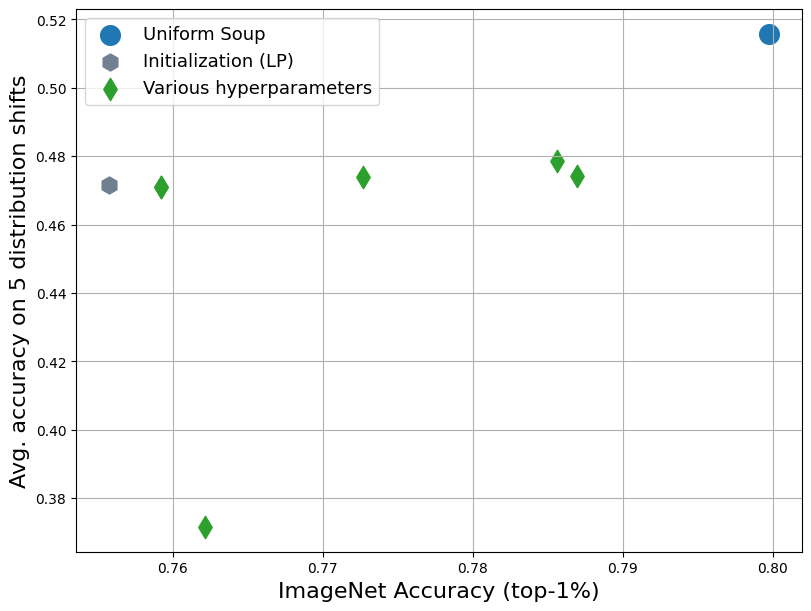
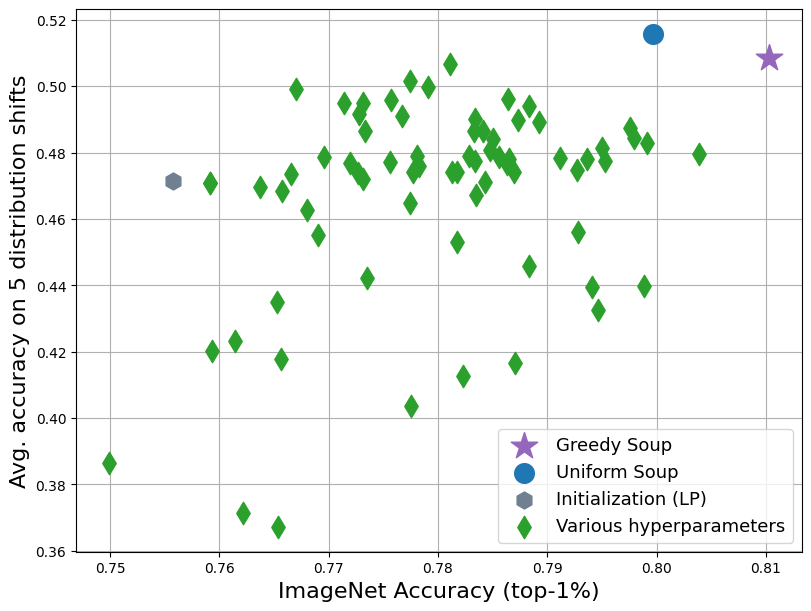
updated results

diff --git a/main.py b/main.py
@@ -5,6 +5,7 @@ import torch
 import clip
 import os
 import json
+import operator
 
 import matplotlib.pyplot as plt
 import numpy as np
@@ -61,6 +62,7 @@ if __name__ == '__main__':
     NUM_MODELS = 72
     INDIVIDUAL_MODEL_RESULTS_FILE = 'individual_model_results.jsonl'
     UNIFORM_SOUP_RESULTS_FILE = 'uniform_soup_results.jsonl'
+    GREEDY_SOUP_RESULTS_FILE = 'greedy_soup_results.jsonl'
 
     # Step 1: Download models.
     if args.download_models:
@@ -75,9 +77,8 @@ if __name__ == '__main__':
 
     model_paths = [os.path.join(args.model_location, f'model_{i}.pt') for i in range(NUM_MODELS)]
 
-
     # Step 2: Evaluate individual models.
-    if args.eval_individual_models or args.uniform_soup:
+    if args.eval_individual_models or args.uniform_soup or args.greedy_soup:
         base_model, preprocess = clip.load('ViT-B/32', 'cpu', jit=False)
 
     if args.eval_individual_models:
@@ -108,9 +109,6 @@ if __name__ == '__main__':
     if args.uniform_soup:
         if os.path.exists(UNIFORM_SOUP_RESULTS_FILE):
             os.remove(UNIFORM_SOUP_RESULTS_FILE)
-        uniform_soup_location = os.path.join(args.model_location, 'uniform_soup.pt')
-        if os.path.exists(uniform_soup_location):
-            os.remove(uniform_soup_location)
 
         # create the uniform soup sequentially to not overload memory
         for j, model_path in enumerate(model_paths):
@@ -141,7 +139,58 @@ if __name__ == '__main__':
 
 
     # Step 4: Greedy Soup.
+    if args.greedy_soup:
+        if os.path.exists(GREEDY_SOUP_RESULTS_FILE):
+            os.remove(GREEDY_SOUP_RESULTS_FILE)
 
+        # Sort models by decreasing accuracy on the held-out validation set ImageNet2p
+        # (We call the held out-val set ImageNet2p because it is 2 percent of ImageNet train)
+        individual_model_db = pd.read_json(INDIVIDUAL_MODEL_RESULTS_FILE, lines=True)
+        individual_model_val_accs = {}
+        for _, row in individual_model_db.iterrows():
+            individual_model_val_accs[row['model_name']] = row['ImageNet2p']
+        individual_model_val_accs = sorted(individual_model_val_accs.items(), key=operator.itemgetter(1))
+        individual_model_val_accs.reverse()
+        sorted_models = [x[0] for x in individual_model_val_accs]
+        
+        greedy_soup_ingredients = [sorted_models[0]]
+        greedy_soup_params = torch.load(os.path.join(args.model_location, f'{sorted_models[0]}.pt'))
+        best_val_acc_so_far = individual_model_val_accs[0][1]
+        held_out_val_set = ImageNet2p(preprocess, args.data_location, args.batch_size, args.workers)
+
+        for i in range(1, NUM_MODELS):
+            print(f'Testing model {i} of {NUM_MODELS}')
+
+            # get the potential greedy soup.
+            new_ingredient_params = torch.load(os.path.join(args.model_location, f'{sorted_models[i]}.pt'))
+            num_ingredients = len(greedy_soup_ingredients)
+            potential_greedy_soup_params = {
+                k : greedy_soup_params[k].clone() * (num_ingredients / (num_ingredients + 1.)) + 
+                    new_ingredient_params[k].clone() * (1. / (num_ingredients + 1))
+                for k in new_ingredient_params
+            }
+
+            model = get_model_from_sd(potential_greedy_soup_params, base_model)
+            held_out_val_accuracy = test_model_on_dataset(model, held_out_val_set)
+
+            print(f'Potential greedy soup val acc {held_out_val_accuracy}, best so far {best_val_acc_so_far}.')
+            if held_out_val_accuracy > best_val_acc_so_far:
+                greedy_soup_ingredients.append(sorted_models[i])
+                best_val_acc_so_far = held_out_val_accuracy
+                greedy_soup_params = potential_greedy_soup_params
+                print(f'Adding to soup. New soup is {greedy_soup_ingredients}')
+
+        model = get_model_from_sd(greedy_soup_params, base_model)
+        results = {'model_name' : f'greedy_soup'}
+        for dataset_cls in [ImageNet2p, ImageNet, ImageNetV2, ImageNetSketch, ImageNetR, ObjectNet, ImageNetA]:
+            print(f'Evaluating on {dataset_cls.__name__}.')
+            dataset = dataset_cls(preprocess, args.data_location, args.batch_size, args.workers)
+            accuracy = test_model_on_dataset(model, dataset)
+            results[dataset_cls.__name__] = accuracy
+            print(accuracy)
+
+        with open(GREEDY_SOUP_RESULTS_FILE, 'a+') as f:
+            f.write(json.dumps(results) + '\n')
 
     # Step 5: Plot.
     if args.plot:
@@ -153,9 +202,23 @@ if __name__ == '__main__':
         uniform_soup_db['OOD'] = 1./5 * (uniform_soup_db['ImageNetV2'] + 
             uniform_soup_db['ImageNetR'] + uniform_soup_db['ImageNetSketch'] + 
             uniform_soup_db['ObjectNet'] + uniform_soup_db['ImageNetA'])
+        greedy_soup_db = pd.read_json(GREEDY_SOUP_RESULTS_FILE, lines=True)
+        greedy_soup_db['OOD'] = 1./5 * (greedy_soup_db['ImageNetV2'] + 
+            greedy_soup_db['ImageNetR'] + greedy_soup_db['ImageNetSketch'] + 
+            greedy_soup_db['ObjectNet'] + greedy_soup_db['ImageNetA'])
 
         fig = plt.figure(constrained_layout=True, figsize=(8, 6))
         ax = fig.subplots()
+
+        ax.scatter(
+            greedy_soup_db['ImageNet'], 
+            greedy_soup_db['OOD'], 
+            marker='*', 
+            color='C4',
+            s=400,
+            label='Greedy Soup',
+            zorder=10
+        )
 
         ax.scatter(
             uniform_soup_db['ImageNet'], 
@@ -164,7 +227,7 @@ if __name__ == '__main__':
             color='C0',
             s=200,
             label='Uniform Soup',
-            zorder=1
+            zorder=10
         )
 
         ax.scatter(
@@ -174,7 +237,7 @@ if __name__ == '__main__':
             color='slategray',
             s=150,
             label='Initialization (LP)',
-            zorder=1
+            zorder=10
         )
 
         ax.scatter(
@@ -184,7 +247,7 @@ if __name__ == '__main__':
             color='C2',
             s=130,
             label='Various hyperparameters',
-            zorder=1
+            zorder=10
         )
 
         ax.set_ylabel('Avg. accuracy on 5 distribution shifts', fontsize=16)

diff --git a/utils.py b/utils.py
@@ -62,8 +62,6 @@ def test_model_on_dataset(model, dataset):
             loader = dataset.train_loader
             # assert to make sure the imagenet held-out minival logic is consistent across machines.
             # tested on a few machines but if this fails for you please submit an issue and we will resolve.
-            print('ASSERTING')
-            print(dataset.train_dataset.__getitem__(dataset.sampler.indices[1000]))
             assert dataset.train_dataset.__getitem__(dataset.sampler.indices[1000])['image_paths'].endswith('n01675722_4108.JPEG')
 
         for i, batch in enumerate(loader):

diff --git a/README.md b/README.md
@@ -1,1 +1,82 @@
-# model-soups
+# [Model soups: averaging weights of multiple fine-tuned models improves accuracy without increasing inference time](https://arxiv.org/abs/2203.05482)
+
+This repository contains code for the paper [Model soups: averaging weights of multiple fine-tuned models improves accuracy without increasing inference time](https://arxiv.org/abs/2203.05482) by Mitchell Wortsman, Gabriel Ilharco, Samir Yitzhak Gadre, Rebecca Roelofs, Raphael Gontijo-Lopes, Ari S. Morcos, Hongseok Namkoong, Ali Farhadi, Yair Carmon*, Simon Kornblith*, and Ludwig Schmidt*.
+
+
+<p align="center">
+<img src="figure.png"/>
+</p>
+
+## Code
+
+Using this repository you can reproduce the figure above.
+There are 5 steps to do so: 1) downloading the models, 2) evaluating the individual models, 3) running the uniform soup, 4) running the greedy soup, and 5) making the plot.
+
+Note that any of these steps can be skipped, i.e, you can run the greedy soup without evaluating the individual models.
+This is because we have already completed all of the steps and saved the results files in this repository (i.e., `individual_model_results.jsonl`).
+If you do decide to rerun a step, the corresponding results file is deleted.
+
+The exception is step 1, downloading the models. If you wish to do steps 2, 3, or 4 you must first run step 1.
+
+### Install dependencies and downloading datasets
+
+To install the dependencies either run the following code or see [environment.md](environment.md) for more information.
+```bash
+conda env create -f environment.yml
+conda activate model_soups
+```
+
+To download the datasets see [datasets.md](datasets.md).
+
+### Step 1: Downloading the models.
+
+```bash
+python main.py --download-models --data-location <where data is stored> --model-location <where models will be stored>
+```
+
+### Step 2: Evaluate individual models.
+
+```bash
+python main.py --eval-individual-models --data-location <where data is stored> --model-location <where models are stored>
+```
+Note that this will first delete then rewrite the file `individual_model_results.jsonl`.
+
+### Step 3: Uniform soup.
+
+```bash
+python main.py --uniform-soup --data-location <where data is stored> --model-location <where models are stored>
+```
+Note that this will first delete then rewrite the file `uniform_soup_results.jsonl`.
+
+### Step 4. Greedy soup.
+
+```bash
+python main.py --greedy-soup --data-location <where data is stored> --model-location <where models are stored>
+```
+Note that this will first delete then rewrite the file `greedy_soup_results.jsonl`.
+
+### Step 5. Plot.
+
+```bash
+python main.py --plot --data-location <where data is stored> --model-location <where models are stored>
+```
+Note that this will first delete then rewrite the file `figure.png`.
+
+### Note
+
+If you want, you can all steps with:
+```bash
+python main.py --download-models --eval-individual-models --uniform-soup --greedy-soup --plot --data-location <where data is stored> --model-location <where models are stored>
+```
+
+## Citing
+
+If you found this repository useful, please consider citing:
+```bibtex
+@article{wortsman2022model,
+  title={Model soups: averaging weights of multiple fine-tuned models improves accuracy without increasing inference time},
+  author={Wortsman, Mitchell and Ilharco, Gabriel and Gadre, Samir Yitzhak and Roelofs, Rebecca and Gontijo-Lopes, Raphael and Morcos, Ari S and Namkoong, Hongseok and Farhadi, Ali and Carmon, Yair and Kornblith, Simon and others},
+  journal={arXiv preprint arXiv:2203.05482},
+  year={2022}
+}
+```

diff --git a/environment.md b/environment.md
@@ -1,0 +1,28 @@
+## Instructions for setting up an environment.
+
+We recommend running:
+
+```bash
+conda env create -f environment.yml
+conda activate model_soups
+```
+
+However, one can also run:
+
+```bash
+# make a conda environment and install pytorch.
+conda create --name model_soups python=3.6
+conda activate model_soups
+conda install --yes -c pytorch pytorch=1.7.1 torchvision cudatoolkit=11.0
+
+# instructions from https://github.com/openai/CLIP for how to install. Also we will tie to a specific release.
+pip install ftfy regex tqdm
+pip install git+https://github.com/openai/CLIP.git@40f5484c1c74edd83cb9cf687c6ab92b28d8b656
+
+# additional imports
+pip install wget
+pip install git+https://github.com/modestyachts/ImageNetV2_pytorch
+pip install requests
+pip install matplotlib
+pip install pandas
+```
